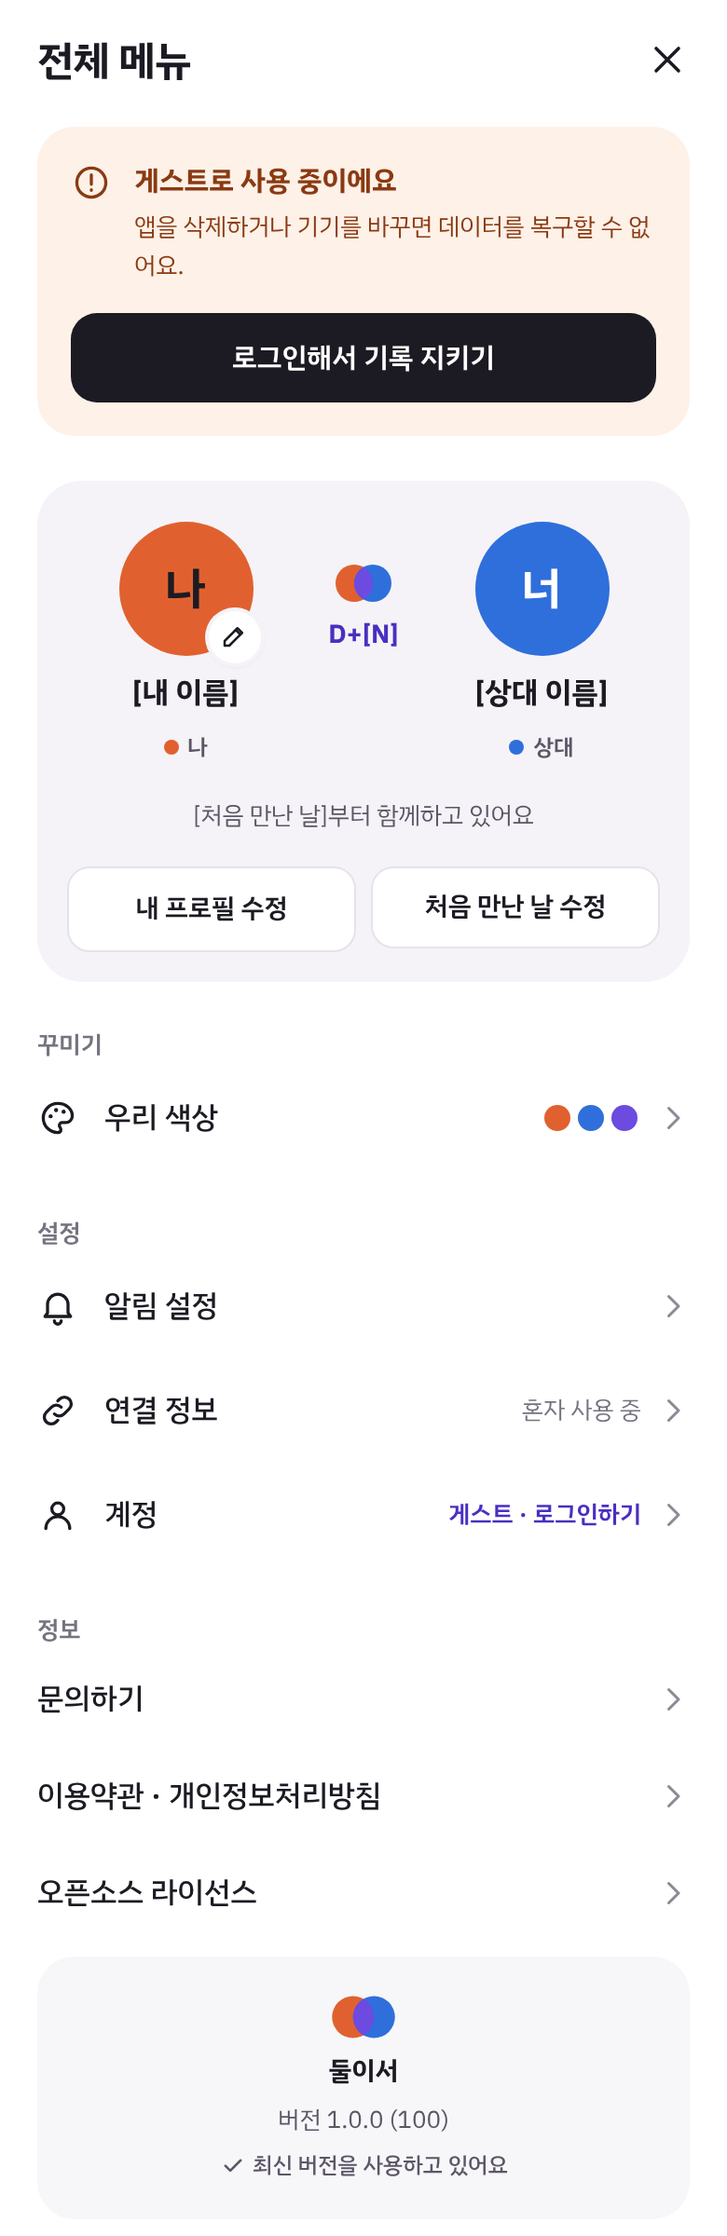
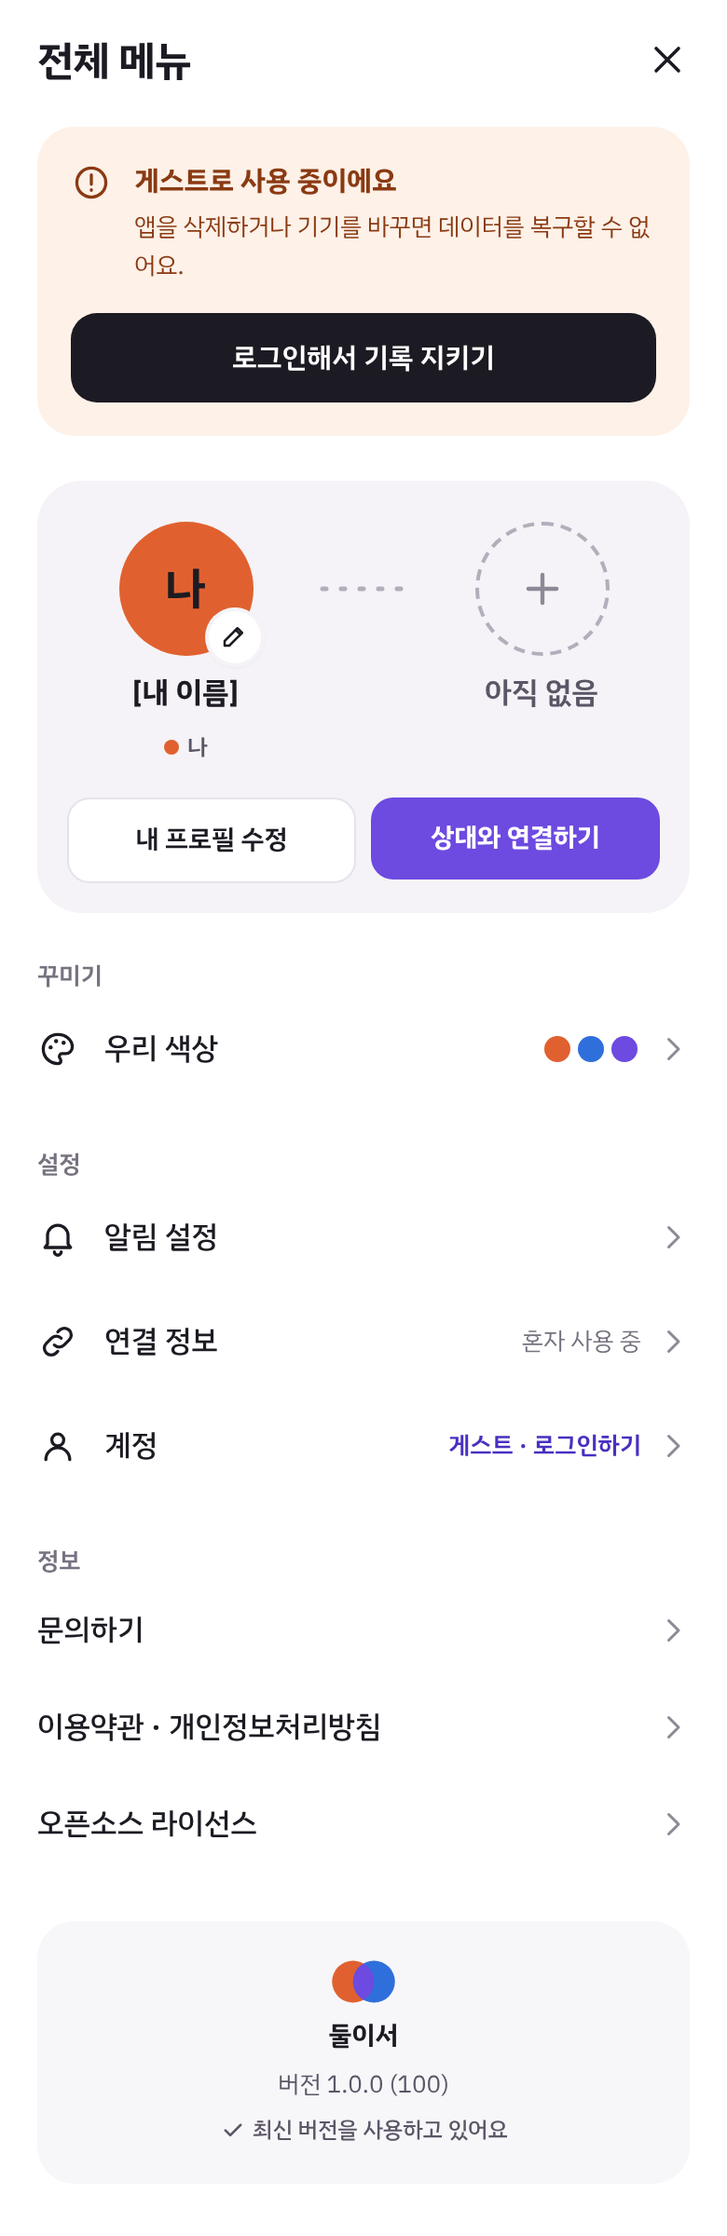
design(prd-sync): PRD v0.4 디자인 반영 (캔버스 버전 28)
- 기존 화면 수정: SCR-CAL-01, SCR-COUPLE-02, SCR-COUPLE-04, SCR-ANNIV-01, SCR-MEMO-01/02/04, SCR-SET-01, SCR-SET-03
- 새 화면: SCR-NOTI-01, SCR-CAL-02, SCR-MEMO-03, SCR-SET-02 + 화면 흐름도
- 화면 이미지 16장 추가·11장 갱신, canvas-map, SCREENS 디자인 상태, 변경 요청서 반영 완료
- 새 토큰 없음. 코드 만료 화면은 사용자 확인 대기

Claude-Session: https://claude.ai/code/session_01UgG97h9mRRas5q74ojFbSs

diff --git a/docs/SCREENS.md b/docs/SCREENS.md
@@ -1,9 +1,9 @@
 # 둘이서 화면 명세 (MVP v0.1)
 
 > 기준 문서: 둘이서 PRD v0.4 (`docs/PRD.md`)
-> 디자인 기준: **부분 반영 (2026-10-18, 디자인 캔버스는 PRD v0.3 기준)**. 19개 화면 중 5개 반영, 14개 변경 요청됨 (PRD v0.4). 14개 중 10개는 기존 이미지가 있어 참고용이고, 4개(SCR-CAL-02, SCR-MEMO-03, SCR-SET-02, SCR-NOTI-01)는 이미지가 없는 새 화면
+> 디자인 기준: **반영됨 (2026-10-18, 캔버스 버전 28, PRD v0.4)**. 19개 화면 모두 이미지가 있어요.
 > 디자인 원본: claude.ai 디자인 캔버스 "커플 공유 앱 데모" (보드 대응표: `design/canvas-map.md`)
-> 디자인 변경 요청서: `design/change-requests/prd-v0.4.md` (디자인 반영 전)
+> 디자인 변경 요청서: `design/change-requests/prd-v0.4.md` (반영 완료, 캔버스 버전 28)
 > 함께 보는 문서: `design/design-system.md`, `design/tokens.json`, `design/screens/`
 > 작성일: 2026-10-17 · 갱신: 2026-10-18 (디자인 핸드오프, PRD v0.4 반영)
 
@@ -11,8 +11,7 @@
 
 **표기**
 - `디자인: 반영됨`은 이미지가 있고 이 문서와 맞다는 뜻이에요.
-- `디자인: 변경 요청됨 (PRD v0.4)`는 디자인 변경 요청서로 수정을 요청했고 아직 캔버스에 반영되지 않았다는 뜻이에요. 기존 이미지가 있으면 PRD v0.3 기준이라 레이아웃 참고용으로만 쓰고, 바뀐 부분은 이 문서를 따라요.
-- `디자인: 변경 요청됨 (PRD v0.4, 새 화면)`은 이미지가 아직 없는 화면(SCR-CAL-02, SCR-MEMO-03, SCR-SET-02, SCR-NOTI-01)이에요. 새로 그려 달라고 요청했고, 디자인이 나오기 전까지 구현하지 않아요.
+- `디자인: 변경 요청됨 (PRD vX.Y)`는 디자인 변경 요청서로 수정을 요청했고 아직 캔버스에 반영되지 않았다는 뜻이에요. 기존 이미지는 레이아웃 참고용으로만 쓰고, 바뀐 부분은 이 문서를 따라요. 이미지가 없는 새 화면은 디자인이 나오기 전까지 구현하지 않아요.
 - `차이:`는 디자인이 PRD와 다른 점이에요. **구현은 PRD를 따르고**, 차이는 사람이 정리할 때까지 그대로 둬요. PRD v0.4에서 대부분 해결됐어요. 전체 목록은 맨 아래 "PRD와의 차이"에 있어요.
 - 샘플 이름·숫자(`[상대 이름]`, `D+189` 등)는 자리표시예요. 실제 값으로 바꿔요.
 - PRD에 있는 ID만 써요. 상태별 화면과 다이얼로그는 `SCR-…--<상태>.png`로 구분해요.
@@ -67,7 +66,7 @@
   - 펼친 상태(달력 크게, 날짜 칸에 일정 막대): `SCR-CAL-01--expanded.png`. 날짜 있는 메모가 펼친 달력에서 어떻게 보이는지는 디자인에서 정해요.
   - 선택한 날 비어 있음: "아직 일정이나 메모가 없어요" + "+ 이 날에 추가하기"
   - 개인 공간: D-day 없음 · 커플 + 처음 만난 날 없음: D-day 자리에 처음 만난 날 입력 안내 (디자인 없음, PRD 기준)
-- **디자인**: 변경 요청됨 (PRD v0.4) — 기존 이미지(design/screens/SCR-CAL-01.png)는 참고용. 알림 버튼 점과 날짜 점·목록의 메모 표시를 고쳐요.
+- **디자인**: 반영됨 (2026-10-18, 캔버스 버전 28, design/screens/SCR-CAL-01.png, SCR-CAL-01--expanded.png) — 알림 버튼의 안 읽음 점, 날짜 점·목록의 메모 표시. 점은 기존 brand-500 색을 써요.
 
 ### SCR-CAL-02 일정 상세
 
@@ -77,7 +76,7 @@
 - **권한**: 수정·삭제는 작성자에게만. 대상이 '함께'면 두 사람 모두
 - **일정 알림 선택지**: 시간 일정은 없음·정시·10분 전·1시간 전·1일 전, 종일 일정은 없음·당일 오전 9시·1일 전 오전 9시. 내 설정만 보임
 - **다이얼로그**: 삭제 확인
-- **디자인**: 변경 요청됨 (PRD v0.4, 새 화면) — 지금까지 디자인이 없었어요. 새로 그려야 해서 디자인이 나오기 전에는 구현하지 않아요.
+- **디자인**: 반영됨 (2026-10-18, 캔버스 버전 28, design/screens/SCR-CAL-02.png, SCR-CAL-02--partner.png, SCR-CAL-02--delete-dialog.png) — 내 일정(수정·삭제 보임), 상대 일정(수정·삭제 없음), 삭제 확인.
 
 ### SCR-CAL-03 일정 작성·수정
 
@@ -102,7 +101,7 @@
 - **진입**: SCR-CAL-01 앱바의 "함께한 지 D+N", 기념일 푸시, 알림 목록(SCR-NOTI-01)
 - **구성**: 앱바(뒤로, "기념일", 추가 버튼 → SCR-ANNIV-02), 함께한 날 카드(겹친 원, "함께한 지", D+N, "처음 만난 날 <날짜>"), "다가오는 기념일 · 가까운 순" 목록(날짜 블록 월/일, 이름, "자동 기념일" 또는 "내가/상대가 만든 기념일 · 매년" + 사람 색 점, D-N 배지 — 30일 이내는 `brand-100`/`brand-700`), 하단 안내 문구
 - **권한**: 자동 기념일은 수정·삭제 불가(누를 수 없음). 직접 기념일은 작성자만 수정
-- **디자인**: 변경 요청됨 (PRD v0.4) — 기존 이미지(design/screens/SCR-ANNIV-01.png)는 참고용. 함께한 날 카드의 "사귄 날"을 "처음 만난 날"로 고쳐요.
+- **디자인**: 반영됨 (2026-10-18, 캔버스 버전 28, design/screens/SCR-ANNIV-01.png) — "처음 만난 날"로 고쳤어요.
 
 ### SCR-ANNIV-02 직접 기념일 작성·수정
 
@@ -127,7 +126,7 @@
   - 즐겨찾기 없음: "즐겨찾기한 메모가 없어요. 메모 옆 별을 눌러 추가해 보세요."
 - **목록 항목**: 제목(없으면 본문 첫 줄), 작성자, 작성일, 메모 날짜(있으면). 작성일과 메모 날짜는 라벨이나 아이콘으로 구분해요.
 - **없는 것**: 검색, 상대 읽음 표시, NEW 배지 (D-41)
-- **디자인**: 변경 요청됨 (PRD v0.4) — 기존 이미지(design/screens/SCR-MEMO-01.png)는 참고용. 검색 버튼, 읽음 표시, NEW 배지, 체크리스트 진행 표시를 빼고 메모 날짜를 넣어요.
+- **디자인**: 반영됨 (2026-10-18, 캔버스 버전 28, design/screens/SCR-MEMO-01.png) — 검색·읽음 표시·NEW·체크리스트 표시를 빼고, 메모 날짜를 작성일과 따로 달력 아이콘 칩으로 보여요.
 
 ### SCR-MEMO-02 고정 메모 전체
 
@@ -135,7 +134,7 @@
 - **진입**: SCR-MEMO-01의 "고정 메모 전체 보기" (고정 4개 이상일 때만)
 - **구성**: 앱바(뒤로, "고정된 메모 N"), 안내 "최근에 고정한 순서예요. 핀을 누르면 고정이 풀려요.", 핀 카드 전체(최근 고정순, 메모 날짜가 있으면 날짜), 비었을 때 "고정된 메모가 없어요."
 - **없는 것**: 읽음 표시, NEW 배지 (D-41)
-- **디자인**: 변경 요청됨 (PRD v0.4) — 기존 이미지(design/screens/SCR-MEMO-02.png)는 참고용. 핀 카드의 읽음 표시·NEW 배지를 빼고 메모 날짜를 넣어요.
+- **디자인**: 반영됨 (2026-10-18, 캔버스 버전 28, design/screens/SCR-MEMO-02.png) — 읽음·NEW·체크리스트 표시를 빼고 메모 날짜 칩을 넣었어요.
 
 ### SCR-MEMO-03 메모 상세
 
@@ -144,7 +143,7 @@
 - **구성 (PRD 기준)**: 제목, 본문, 메모 날짜(있으면), 작성자 닉네임, 고정 버튼, 즐겨찾기 버튼
 - **권한**: 고정은 두 사람 모두. 수정·삭제는 작성자만(수정 대상: 제목, 본문, 메모 날짜). 즐겨찾기는 각자 (상대에게 안 보임)
 - **다이얼로그**: 삭제 확인
-- **디자인**: 변경 요청됨 (PRD v0.4, 새 화면) — 지금까지 디자인이 없었어요. 새로 그려야 해서 디자인이 나오기 전에는 구현하지 않아요.
+- **디자인**: 반영됨 (2026-10-18, 캔버스 버전 28, design/screens/SCR-MEMO-03.png, SCR-MEMO-03--partner.png, SCR-MEMO-03--delete-dialog.png) — 내 메모(날짜 있음), 상대 메모(날짜 없음, 고정·즐겨찾기만), 삭제 확인.
 
 ### SCR-MEMO-04 메모 작성·수정
 
@@ -153,7 +152,7 @@
 - **구성**: SCR-CAL-03과 같은 화면의 [메모] 탭. 제목(placeholder "예) 주말에 살 것"), 날짜 영역, 메모(본문), "상대에게 알림 보내기" 스위치. 대상 선택 없음. 체크리스트 없음
 - **날짜 영역**: 기본은 날짜가 없고 [날짜 추가] 버튼만 있어요. 버튼을 눌러 날짜를 고르면 버튼이 날짜 행으로 바뀌고, 행 안의 제거 버튼(접근성 라벨 "날짜 빼기")으로 날짜를 뺄 수 있어요. 날짜 행을 누르면 날짜를 바꿀 수 있어요. 날짜를 붙인 메모는 캘린더의 그 날에도 나와요.
 - **조건**: 제목, 본문이 둘 다 비어 있으면 저장되지 않음 (날짜만 있어도 저장되지 않음). 개인 공간과 수정할 때는 알림 스위치가 보이지 않음
-- **디자인**: 변경 요청됨 (PRD v0.4) — 기존 이미지(design/screens/SCR-MEMO-04.png)는 참고용. 항상 보이던 날짜 행을 [날짜 추가] 버튼으로 바꿔요.
+- **디자인**: 반영됨 (2026-10-18, 캔버스 버전 28, design/screens/SCR-MEMO-04.png, SCR-MEMO-04--date.png) — 기본은 [날짜 추가] 버튼, 날짜를 넣으면 날짜 행과 [날짜 빼기].
 
 ---
 
@@ -173,7 +172,7 @@
 - **구성**: 뒤로, 제목 "초대코드를 상대에게 보내주세요", 코드 패널(6칸, 한 칸에 한 글자, IBM Plex Mono 26, 남은 시간 "10분 동안 유효 · N분 N초 남음", [코드 복사] [공유하기]), 대기 상태 "상대방을 기다리는 중이에요", [코드 새로 만들기], 하단 [연결 확인하기] → SCR-COUPLE-04
 - **코드 규칙**: 영문 대문자와 숫자 6자리, 헷갈리는 0·O·1·I·L 제외. 만든 지 10분 뒤에 만료돼요.
 - **재요청**: [코드 새로 만들기]를 누르면 이전 코드는 바로 만료되고 새 코드가 나와요(남은 시간은 다시 10분). 마지막으로 만든 지 1분이 안 지났으면 버튼이 비활성이고 "N초 뒤에 다시 만들 수 있어요"가 보여요. 1분이 지나면 버튼이 켜져요.
-- **디자인**: 변경 요청됨 (PRD v0.4) — 기존 이미지(design/screens/SCR-COUPLE-02.png)는 참고용. 6칸은 이미 맞고, 유효 시간 문구(24시간 → 10분)와 재요청 대기 상태를 고쳐요.
+- **디자인**: 반영됨 (2026-10-18, 캔버스 버전 28, design/screens/SCR-COUPLE-02.png, SCR-COUPLE-02--cooldown.png) — "10분 동안 유효 · N분 N초 남음", 재요청 대기 상태 "N초 뒤에 다시 만들 수 있어요". 남은 시간이 0이 된 화면은 아직 정하지 않았어요 (PR에서 확인).
 
 ### SCR-COUPLE-03 초대코드 입력하기
 
@@ -181,7 +180,7 @@
 - **구성**: 뒤로, 제목 "받은 초대코드를 입력해 주세요", 설명 "영문과 숫자 6자리예요.", 코드 칸 6개(현재 칸 `brand-500` 2px), [붙여넣기], 코드가 다 차면 연결할 상대 카드("[상대 이름]", 다시 입력), [연결하고 시작하기](비활성 → 활성) → SCR-COUPLE-04
 - **입력**: 소문자로 입력해도 되고, 칸에는 대문자로 보여요. 대소문자를 구분하지 않고 같은 코드로 처리해요.
 - **오류 (각각 다른 문구, 디자인 없음)**: 존재하지 않는 코드, 만료된 코드, 이미 사용됐거나 재요청으로 만료된 코드, 자신이 만든 코드, 사용할 수 없는 코드, 1시간 10회 실패로 입력 제한
-- **디자인**: 변경 요청됨 (PRD v0.4) — 기존 이미지(design/screens/SCR-COUPLE-03.png)는 이미 6칸이고 설명도 맞아서 확인만 요청했어요. 바뀔 게 없으면 요청서에서 "변경 없음"으로 알려 줘요.
+- **디자인**: 반영됨 (2026-10-18, design/screens/SCR-COUPLE-03.png) — 확인 결과 변경 없음 (6칸, "영문과 숫자 6자리예요.", 소문자 입력은 대문자로 보임).
 
 ### SCR-COUPLE-04 연결 완료
 
@@ -190,7 +189,7 @@
 - **구성**: 겹친 원, 제목 "[상대 이름]님과 연결됐어요", 설명, "처음 만난 날" 날짜 선택("날짜를 골라 주세요", 안내 "D-day와 기념일이 이 날을 1일로 계산돼요. 둘 중 누구든 나중에 바꿀 수 있어요."), "혼자 쓴 기록" — 개수 안내와 [가져오기](기본) / [가져오지 않기] 선택 카드, "내 기록만 정해요. 상대의 기록은 상대가 정해요.", [둘이서 시작하기] → SCR-CAL-01
 - **상태**: 혼자 쓴 기록이 없으면 기록 영역이 없음 · 유예 기간 안 재연결이면 이전 공간이 복구되고 해제 후 새로 쓴 기록만 고름
 - **다이얼로그**: "가져오지 않기"로 시작하면 "혼자 쓴 기록을 삭제할까요?" [취소] [삭제하고 시작] — `SCR-COUPLE-04--drop-dialog.png`
-- **디자인**: 변경 요청됨 (PRD v0.4) — 기존 이미지(design/screens/SCR-COUPLE-04.png, SCR-COUPLE-04--drop-dialog.png)는 참고용. "사귄 날"을 "처음 만난 날"로 고쳐요.
+- **디자인**: 반영됨 (2026-10-18, 캔버스 버전 28, design/screens/SCR-COUPLE-04.png, SCR-COUPLE-04--drop-dialog.png) — "처음 만난 날"로 고쳤어요.
 
 ---
 
@@ -215,7 +214,7 @@
   - 비어 있음: "최근 30일 동안 받은 알림이 없어요"
   - 안 읽음: 항목에 점이 보이고, 읽으면 점이 사라져요. 모든 항목을 읽으면 SCR-CAL-01 알림 버튼의 점도 사라져요.
 - **규칙**: 30일이 지난 알림은 목록에서 사라져요. 알림은 각자의 것이라 상대에게 보이지 않아요. 연결을 해제하면 그 공간에서 온 알림은 목록에서 지워져요 (PRD Q-09 기본값).
-- **디자인**: 변경 요청됨 (PRD v0.4, 새 화면) — 새 화면이고 디자인이 없어요. 디자인이 나오기 전에는 구현하지 않아요.
+- **디자인**: 반영됨 (2026-10-18, 캔버스 버전 28, design/screens/SCR-NOTI-01.png, SCR-NOTI-01--read.png, SCR-NOTI-01--empty.png) — 안 읽음 섞임, 모두 읽음, 빈 상태. 제목·본문은 자리표시예요. 이동 흐름은 design/screens/flow-prd-v0.4.png.
 
 ---
 
@@ -239,7 +238,7 @@
   - 탈퇴 확인: "정말 탈퇴할까요?" / 커플 공간: "먼저 [상대 이름]님과의 연결이 해제되고, 내 계정이 삭제돼요. 탈퇴한 계정은 되돌릴 수 없어요." · 개인 공간: "내 계정과 모든 일정, 기념일, 메모가 바로 삭제돼요. 탈퇴한 계정은 되돌릴 수 없어요." [취소] [탈퇴하기] → SCR-START-01 — `SCR-SET-01--withdraw-dialog.png`
   - 로그아웃 확인 (디자인 없음)
 - **차이**: 탈퇴가 메뉴가 아니라 계정 화면 안에 있음 (PRD는 전체 메뉴에 탈퇴가 보인다고 함, 아직 정하지 않음)
-- **디자인**: 변경 요청됨 (PRD v0.4) — 기존 이미지(design/screens/SCR-SET-01.png 등)는 참고용. 게스트·혼자일 때의 프로필 카드를 새로 그려요. "처음 만난 날" 용어는 이미 맞아요.
+- **디자인**: 반영됨 (2026-10-18, 캔버스 버전 28, design/screens/SCR-SET-01.png, SCR-SET-01--solo.png, SCR-SET-01--guest.png) — 게스트·혼자일 때 나 + "아직 없음" + [상대와 연결하기]. 알림 설정 행은 SCR-SET-02로 가요.
 
 ### SCR-SET-02 알림 설정
 
@@ -247,7 +246,7 @@
 - **진입**: SCR-SET-01의 알림 설정
 - **구성 (PRD 기준)**: 앱바(뒤로, "알림 설정"), 스위치 4개 — 일정 알림, 상대 일정·메모 추가, 메모 고정, 기념일(기본 모두 켜짐). 아래에 안내 2줄: "연결·해제 알림은 끌 수 없어요."와 "꺼도 알림 목록에는 남아요"
 - **동작**: 스위치를 끄면 그 종류의 푸시만 오지 않아요. 알림 목록(SCR-NOTI-01)에는 계속 남아요. 설정은 서버에 저장되어 재설치 후에도 유지돼요 (회원 한정).
-- **디자인**: 변경 요청됨 (PRD v0.4, 새 화면) — 지금까지 디자인이 없었어요. 새로 그려야 해서 디자인이 나오기 전에는 구현하지 않아요.
+- **디자인**: 반영됨 (2026-10-18, 캔버스 버전 28, design/screens/SCR-SET-02.png, SCR-SET-02--mixed.png) — 스위치 4개(기본 모두 켜짐)와 안내 2줄.
 
 ### SCR-SET-03 우리 색상
 
@@ -255,7 +254,7 @@
 - **구성**: 앱바(뒤로, "우리 색상", 완료), 미리보기(한 주 달력 + 일정 3개), "바꿀 대상" [나 | 상대 | 함께](원 안에 나·너·둘, 색 이름), "<대상> 색상 고르기" 12색(44 원, 선택은 흰 링 + `ink-900` 링 + 체크), 같은 색 경고 배너 "같은 색을 쓰는 대상이 있어요. 캘린더에서 누구 일정인지 구분하기 어려울 수 있어요.", "바꾼 색상은 두 사람 화면에 똑같이 적용돼요.", [기본 색으로 되돌리기]
 - **없는 것**: [직접 고르기]. 색은 12색 중에서만 골라요 (D-41).
 - **개인 공간**: 나 색 하나만 (디자인 없음, PRD 기준)
-- **디자인**: 변경 요청됨 (PRD v0.4) — 기존 이미지(design/screens/SCR-SET-03.png)는 참고용. [직접 고르기]를 빼요.
+- **디자인**: 반영됨 (2026-10-18, 캔버스 버전 28, design/screens/SCR-SET-03.png) — [직접 고르기]를 뺐어요.
 
 ### SCR-SET-04 프로필 수정
 
@@ -268,7 +267,7 @@
 
 ## PRD와의 차이
 
-디자인 핸드오프(2026-10-18)에서 찾은 차이 10건이에요. PRD v0.4에서 모두 정했어요. 정한 대로 PRD를 바꾸거나 디자인을 고쳐요. 디자인을 고치는 항목은 변경 요청서(`design/change-requests/prd-v0.4.md`)에 있고, 캔버스에 반영되기 전까지 `디자인: 변경 요청됨 (PRD v0.4)`로 표시해요.
+디자인 핸드오프(2026-10-18)에서 찾은 차이 10건이에요. PRD v0.4에서 모두 정했어요. 디자인을 고치는 항목은 변경 요청서(`design/change-requests/prd-v0.4.md`)대로 캔버스 버전 28에 반영했어요.
 
 | # | 화면 | 디자인 | PRD (v0.3) | 해결 (PRD v0.4) |
 | --- | --- | --- | --- | --- |
@@ -281,7 +280,7 @@
 | 7 | SCR-SET-03 | 직접 고르기 | 12색 중 선택 (FR-CAL-04) | 해결: 디자인을 고침. 직접 고르기 제거 (D-41) |
 | 8 | SCR-SET-01 | 게스트·혼자 상태에서도 상대 프로필 표시 | 상대 없음 | 해결: 디자인을 고침. 상대 자리에 "아직 없음" + [상대와 연결하기] |
 | 9 | SCR-START-01 | "공지사항" 칩 | 공지는 고정 핀 | 해결: 유지하기로 결정. 칩은 그대로 둠 |
-| 10 | SCR-CAL-02, SCR-MEMO-03, SCR-SET-02 | 디자인 없음 | 화면 필요 | 해결 요청: 디자인 변경 요청서에서 새로 그리기로 함. 반영 전까지 구현하지 않음 |
+| 10 | SCR-CAL-02, SCR-MEMO-03, SCR-SET-02 | 디자인 없음 | 화면 필요 | 해결: 캔버스 버전 28에서 새로 그림 (SCR-NOTI-01 포함) |
 
 핸드오프 표에는 없었지만 `SCR-SET-01`에 남은 차이가 하나 있어요.
 

diff --git a/design/canvas-map.md b/design/canvas-map.md
@@ -6,7 +6,7 @@
 | --- | --- |
 | 디자인 캔버스 | 커플 공유 앱 데모 — https://claude.ai/artifact/LKUStrD3gPGhMkprsPKgaS |
 | 디자인 시스템 | 디자인시스템 — https://claude.ai/artifact/X1WrZonYhaZ3qXSc3o2Mrj (캔버스 안 사본: `project/ds/duriseo/tokens.json`) |
-| 마지막 반영 | 2026-10-18 · 캔버스 버전 27 · PRD v0.3 |
+| 마지막 반영 | 2026-10-18 · 캔버스 버전 28 · PRD v0.4 |
 
 캔버스 링크는 주코님 계정에서만 열려요(비공개).
 
@@ -18,31 +18,46 @@
 | Connect.dc.html | SCR-COUPLE-01 | SCR-COUPLE-01.png |
 | ConnectGuest.dc.html | SCR-COUPLE-01 (게스트) | SCR-COUPLE-01--guest.png |
 | InviteCreate.dc.html | SCR-COUPLE-02 | SCR-COUPLE-02.png |
+| InviteCreateCooldown.dc.html | SCR-COUPLE-02 (재요청 대기) | SCR-COUPLE-02--cooldown.png |
 | InviteEnter.dc.html | SCR-COUPLE-03 | SCR-COUPLE-03.png |
 | Connected.dc.html | SCR-COUPLE-04 | SCR-COUPLE-04.png |
 | ConnectedDialog.dc.html | SCR-COUPLE-04 (가져오지 않기 확인) | SCR-COUPLE-04--drop-dialog.png |
 | Calendar.dc.html | SCR-CAL-01 | SCR-CAL-01.png |
 | CalendarExpanded.dc.html | SCR-CAL-01 (펼친 상태) | SCR-CAL-01--expanded.png |
+| EventDetail.dc.html | SCR-CAL-02 (내 일정) | SCR-CAL-02.png |
+| EventDetailPartner.dc.html | SCR-CAL-02 (상대 일정) | SCR-CAL-02--partner.png |
+| EventDetailDialog.dc.html | SCR-CAL-02 (삭제 확인) | SCR-CAL-02--delete-dialog.png |
 | AddEvent.dc.html | SCR-CAL-03 | SCR-CAL-03.png |
 | AddEventSolo.dc.html | SCR-CAL-03 (개인 공간) | SCR-CAL-03--solo.png |
 | AddEventMemo.dc.html | SCR-MEMO-04 | SCR-MEMO-04.png |
+| AddEventMemoDate.dc.html | SCR-MEMO-04 (날짜 추가됨) | SCR-MEMO-04--date.png |
 | Anniversaries.dc.html | SCR-ANNIV-01 | SCR-ANNIV-01.png |
 | AnniversaryEdit.dc.html | SCR-ANNIV-02 | SCR-ANNIV-02.png |
 | Memo.dc.html | SCR-MEMO-01 | SCR-MEMO-01.png |
 | PinnedAll.dc.html | SCR-MEMO-02 | SCR-MEMO-02.png |
-| Menu.dc.html | SCR-SET-01 | SCR-SET-01.png |
+| MemoDetail.dc.html | SCR-MEMO-03 (내 메모, 날짜 있음) | SCR-MEMO-03.png |
+| MemoDetailPartner.dc.html | SCR-MEMO-03 (상대 메모, 날짜 없음) | SCR-MEMO-03--partner.png |
+| MemoDetailDialog.dc.html | SCR-MEMO-03 (삭제 확인) | SCR-MEMO-03--delete-dialog.png |
+| Menu.dc.html | SCR-SET-01 (연결됨) | SCR-SET-01.png |
 | MenuGuest.dc.html | SCR-SET-01 (게스트) | SCR-SET-01--guest.png |
+| MenuSolo.dc.html | SCR-SET-01 (혼자 사용 중) | SCR-SET-01--solo.png |
 | ConnectionInfo.dc.html | SCR-SET-01 (커플 관리) | SCR-SET-01--couple.png |
 | ConnectionInfoDialog.dc.html | SCR-SET-01 (연결 해제 확인) | SCR-SET-01--unlink-dialog.png |
 | ConnectionInfoSolo.dc.html | SCR-SET-01 (혼자 사용 중) | SCR-SET-01--couple-solo.png |
 | Account.dc.html | SCR-SET-01 (계정 · 게스트) | SCR-SET-01--account-guest.png |
 | AccountWithdraw.dc.html | SCR-SET-01 (탈퇴 확인) | SCR-SET-01--withdraw-dialog.png |
+| NotificationSettings.dc.html | SCR-SET-02 | SCR-SET-02.png |
+| NotificationSettingsMixed.dc.html | SCR-SET-02 (일부 꺼짐) | SCR-SET-02--mixed.png |
 | ColorSettings.dc.html | SCR-SET-03 | SCR-SET-03.png |
 | ProfileEdit.dc.html | SCR-SET-04 | SCR-SET-04.png |
 | ProfilePhotoSheet.dc.html | SCR-SET-04 (사진 시트) | SCR-SET-04--photo-sheet.png |
+| Notifications.dc.html | SCR-NOTI-01 (안 읽음 섞임) | SCR-NOTI-01.png |
+| NotificationsRead.dc.html | SCR-NOTI-01 (모두 읽음) | SCR-NOTI-01--read.png |
+| NotificationsEmpty.dc.html | SCR-NOTI-01 (빈 상태) | SCR-NOTI-01--empty.png |
+| V04Flow.dc.html | 화면 흐름 (PRD v0.4: 알림 목록·상세·알림 설정) | flow-prd-v0.4.png |
 
 이미지로 만들지 않는 보드: `AppIcons.dc.html`(앱 아이콘 시안), `*_v1.dc.html`·`*_v2.dc.html`(이전 버전)
 
 ## 디자인 없는 화면
 
-SCR-CAL-02 일정 상세, SCR-MEMO-03 메모 상세, SCR-SET-02 알림 설정
+없음 (PRD v0.4 기준 모든 화면에 보드가 있어요)
